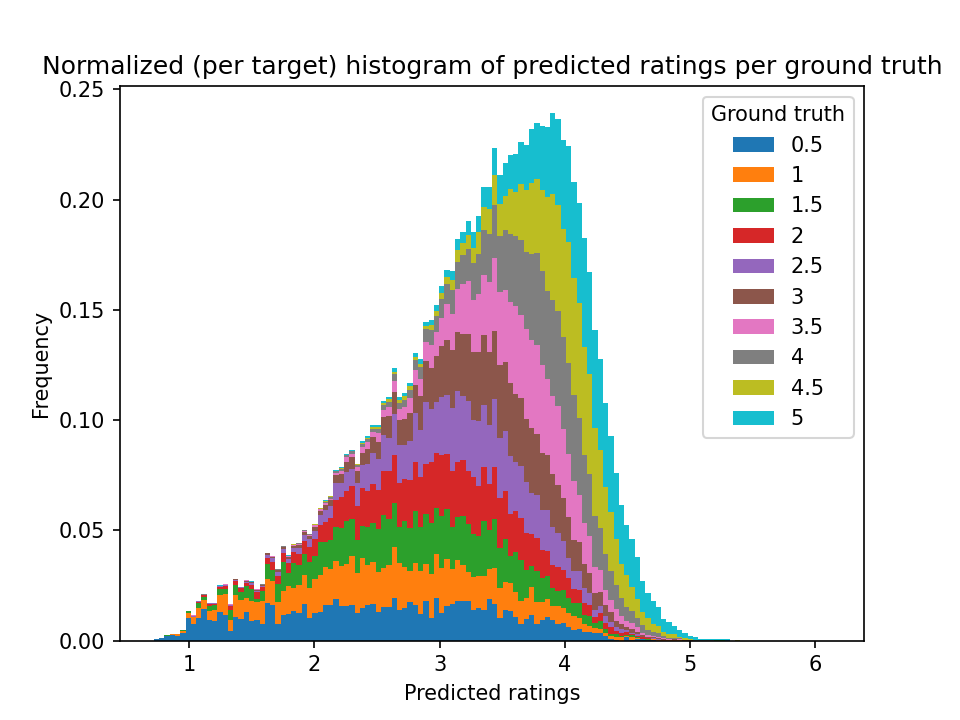
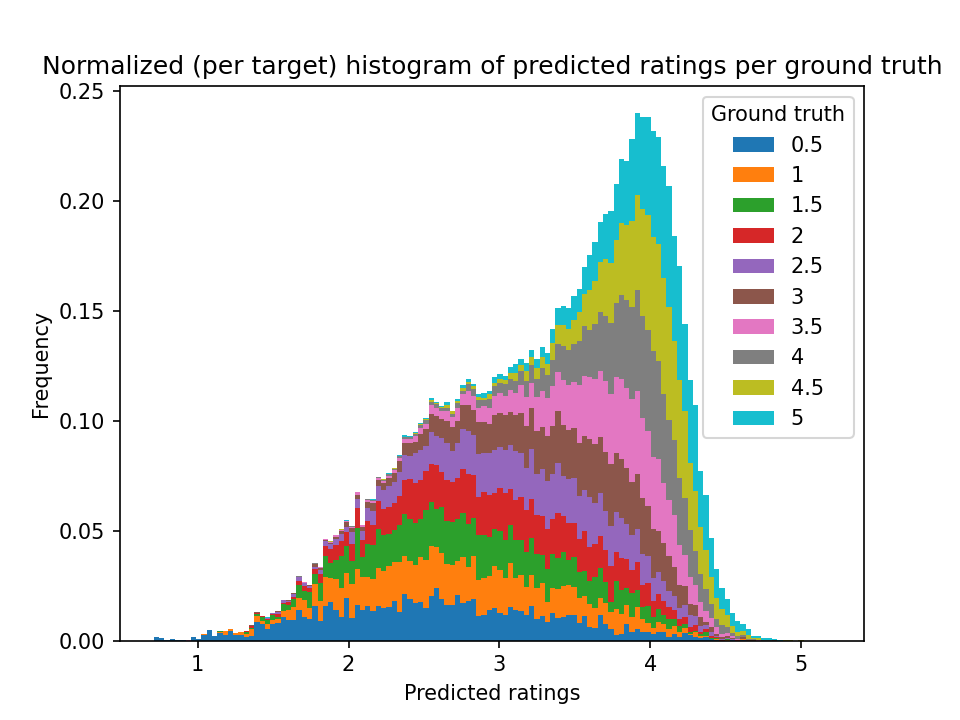
Separate models and datasets - working end2end model - separate lrs Problem: fix division causing NaNs

diff --git a/src/datasets/dynamic_dataset.py b/src/datasets/dynamic_dataset.py
@@ -1,0 +1,92 @@
+import torch
+from sklearn.preprocessing import MultiLabelBinarizer
+from torch.utils.data import Dataset
+import pandas as pd
+import numpy as np
+
+from globals import item_metadata_file, user_ratings_file, audio_features_file, features_to_use
+
+
+class MovieLensDataset(Dataset):
+    print('Initializing common dataset prerequisites...')
+    metadata: pd.DataFrame = pd.read_hdf(item_metadata_file + '.h5')
+    audio: pd.DataFrame = pd.read_csv(audio_features_file + '.csv', sep=';', index_col='movieId')
+    audio.drop(['primaryTitle', 'fileName'], axis=1, inplace=True)   # drop non-features if they exist
+    audio = audio.astype(np.float64)
+    user_ratings: pd.DataFrame = pd.read_hdf(user_ratings_file + '.h5')
+    print('Done')
+
+    def __init__(self, file):      # 'metadata', 'audio' or 'all'
+        self.samples: pd.DataFrame = pd.read_csv(file + '.csv')
+
+    def __getitem__(self, item):
+        """ returns ((item metadata, item audio), [(ratings, items metadata, items audio)], target rating) """
+        # get sample
+        data = self.samples.iloc[item]
+        # get target rating
+        target_rating = float(data['rating'])
+        # get candidate item features
+        if features_to_use == 'metadata':
+            candidate_items = torch.FloatTensor(self.metadata.loc[data['movieId']]['features'])
+        elif features_to_use == 'audio':
+            candidate_items = torch.FloatTensor(self.audio.loc[data['movieId']].astype(np.float64))
+        elif features_to_use == 'all' or features_to_use == 'both':
+            candidate_items = torch.cat((torch.FloatTensor(self.metadata.loc[data['movieId']]['features']),
+                                         torch.FloatTensor(self.audio.loc[data['movieId']].astype(np.float64))), dim=1)
+        else:
+            raise Exception('Invalid features_to_use parameter in dataset')
+        # for the user part only forward the user's ID. We will mass collect info in batch-level
+        return candidate_items, data['userId'], target_rating
+
+    def __len__(self):
+        return self.samples.shape[0]
+
+    @staticmethod
+    def get_metadata_dim():
+        if features_to_use == 'metadata':
+            return len(MovieLensDataset.metadata['features'].iloc[0])
+        elif features_to_use == 'audio':
+            return MovieLensDataset.audio.shape[1]
+        elif features_to_use == 'all' or features_to_use == 'both':
+            return len(MovieLensDataset.metadata['features'].iloc[0]) + MovieLensDataset.audio.shape[1]
+        else:
+            raise Exception('Invalid features_to_use parameter in dataset')
+
+
+def multihot_encode(actual_values, ordered_possible_values) -> np.array:
+    """ Converts a categorical feature with multiple values to a multi-label binary encoding """
+    mlb = MultiLabelBinarizer(classes=ordered_possible_values)
+    binary_format = mlb.fit_transform(actual_values)
+    return binary_format
+
+
+def my_collate_fn(batch):
+    # turn per-row to per-column
+    batch_data = list(zip(*batch))
+    # stack torch tensors from dataset
+    candidate_items = torch.stack(batch_data[0])
+    targets = torch.FloatTensor(batch_data[2])
+    # for the user part we do all the work here.
+    # get user ids in batch and their ratings
+    user_ids = list(batch_data[1])
+    user_ratings = MovieLensDataset.user_ratings.loc[user_ids]
+    # get unique item ids in batch
+    rated_items_ids = np.unique(np.concatenate(user_ratings['movieId'].values))   # TODO: must return ordered list (seems to)
+    # multi-hot encode sparse ratings into a matrix form
+    user_matrix = multihot_encode(user_ratings['movieId'], rated_items_ids).astype(np.float64)
+    # TODO: This will work but ONLY IF ratings are ORDERED by movieId when we create the dataset. Else the ratings will be misplaced! Be careful!
+    user_matrix[user_matrix == 1] = np.concatenate((user_ratings['rating'] - user_ratings['meanRating']).values)
+    # check: e.g. user_matrix[0, rated_movies == 'tt0114709']
+    user_matrix = torch.FloatTensor(user_matrix)       # convert to tensor
+    # get features for all rated items in batch
+    if features_to_use == 'metadata':
+        rated_items = torch.FloatTensor(np.stack(MovieLensDataset.metadata.loc[rated_items_ids]['features'].values))
+    elif features_to_use == 'audio':
+        rated_items = torch.FloatTensor(MovieLensDataset.audio.loc[rated_items_ids].astype(np.float64).values)
+    elif features_to_use == 'all' or features_to_use == 'both':
+        rated_items = torch.cat((torch.FloatTensor(np.stack(MovieLensDataset.metadata.loc[rated_items_ids]['features'].values)),
+                                 torch.FloatTensor(MovieLensDataset.audio.loc[rated_items_ids].astype(np.float64).values)), dim=1)
+    else:
+        raise Exception('Invalid features_to_use parameter in dataset')
+
+    return candidate_items, rated_items, user_matrix, targets

diff --git a/src/train.py b/src/train.py
@@ -4,16 +4,16 @@ from torch.utils.data import DataLoader
 from tqdm import tqdm
 
 
-from dataset import MovieLensDataset, my_collate_fn
+from datasets.dynamic_dataset import MovieLensDataset, my_collate_fn
 from globals import train_set_file, val_set_file, weight_decay, lr, batch_size, max_epochs, early_stop, \
-    stop_with_train_loss_instead, checkpoint_model_path, patience, dropout_rate, final_model_path
-from model import BasicNCF
+    stop_with_train_loss_instead, checkpoint_model_path, patience, dropout_rate, final_model_path, embeddings_lr
+from models.AdvancedNCF import AdvancedNCF
 from plots import plot_train_val_losses
 
 device = torch.device("cuda:0" if torch.cuda.is_available() else "cpu")
 
 
-def train_model(model: nn.Module, save=True):
+def train_model(model: AdvancedNCF, save=True):
     model.to(device)
 
     # load dataset
@@ -25,7 +25,10 @@ def train_model(model: nn.Module, save=True):
     val_loader = DataLoader(val_dataset, batch_size=batch_size, collate_fn=my_collate_fn)
 
     # define optimizer and loss
-    optimizer = optim.Adam(model.parameters(), lr=lr, weight_decay=weight_decay)
+    optimizer = optim.Adam([
+        {'params': model.item_embeddings.parameters(), 'lr': embeddings_lr},
+        {'params': model.MLP.parameters(), 'lr': lr, 'weight_decay': weight_decay}
+    ])
     criterion = nn.MSELoss(reduction='sum')   # don't average the loss as we shall do that ourselves for the whole epoch
 
     early_stop_times = 0
@@ -39,12 +42,12 @@ def train_model(model: nn.Module, save=True):
         train_size = 0
         model.train()  # gradients "on"
         for data in tqdm(train_loader, desc='Training'):                     # batch
-            # get the item & user input and the target
-            X_item_batch, X_user_batch, y_batch = data
+            # get the input matrices and the target
+            candidate_items, rated_items, user_matrix, y_batch = data
             # reset the gradients
             optimizer.zero_grad()
             # forward model
-            out = model(X_item_batch.float().to(device), X_user_batch.float().to(device))
+            out = model(candidate_items.float().to(device), rated_items.float().to(device), user_matrix.float().to(device))
             # calculate loss
             loss = criterion(out, y_batch.view(-1, 1).float().to(device))
             # backpropagation (compute gradients)
@@ -66,10 +69,10 @@ def train_model(model: nn.Module, save=True):
         val_size = 0
         with torch.no_grad():
             for data in tqdm(val_loader, desc='Validating'):
-                # get the item & user input and the target
-                X_item_batch, X_user_batch, y_batch = data
+                # get the input matrices and the target
+                candidate_items, rated_items, user_matrix, y_batch = data
                 # forward model
-                out = model(X_item_batch.float().to(device), X_user_batch.float().to(device))
+                out = model(candidate_items.float().to(device), rated_items.float().to(device), user_matrix.float().to(device))
                 # calculate loss
                 loss = criterion(out, y_batch.view(-1, 1).float().to(device))
                 # accumulate validation loss
@@ -114,19 +117,11 @@ def train_model(model: nn.Module, save=True):
 
 
 if __name__ == '__main__':
-    # # get metadata dim
-    # item_dim = MovieLensDatasetPreloaded.get_metadata_dim()
-    #
-    # # create model
-    # model = BasicNCF(item_dim, item_dim, dropout_rate=dropout_rate)
-    # model.to(device)
-    # print(model)
-
     # get metadata dim
-    i1, i2 = MovieLensDataset.get_metadata_dim()
+    item_dim = MovieLensDataset.get_metadata_dim()
 
     # create model
-    model = BasicNCF(i1, i1, dropout_rate=dropout_rate)     # todo
+    model = AdvancedNCF(item_dim, dropout_rate=dropout_rate)
     model.to(device)
     print(model)
 

diff --git a/src/evaluate.py b/src/evaluate.py
@@ -6,10 +6,10 @@ from torch import nn
 from torch.utils.data import DataLoader
 from tqdm import tqdm
 
-from dataset import MovieLensDatasetPreloaded
+from datasets.dynamic_dataset import MovieLensDataset, my_collate_fn
 from globals import test_set_file, batch_size
-from model import BasicNCF
-from plots import plot_fitted_vs_targets, plot_residuals, plot_stacked_residuals
+from models.AdvancedNCF import AdvancedNCF
+from plots import plot_residuals, plot_stacked_residuals
 
 device = torch.device("cuda:0" if torch.cuda.is_available() else "cpu")
 
@@ -18,8 +18,8 @@ def evaluate_model(model: nn.Module):
     model.to(device)
 
     # load dataset
-    test_dataset = MovieLensDatasetPreloaded(test_set_file)
-    test_loader = DataLoader(test_dataset, batch_size=batch_size)
+    test_dataset = MovieLensDataset(test_set_file)
+    test_loader = DataLoader(test_dataset, batch_size=batch_size, collate_fn=my_collate_fn)
 
     print('Test size:', len(test_dataset))
 
@@ -36,10 +36,10 @@ def evaluate_model(model: nn.Module):
     i = 0
     with torch.no_grad():
         for data in tqdm(test_loader, desc='Testing'):
-            # get the item & user input and the target
-            X_item_batch, X_user_batch, y_batch = data
+            # get the input matrices and the target
+            candidate_items, rated_items, user_matrix, y_batch = data
             # forward model
-            out = model(X_item_batch.float().to(device), X_user_batch.float().to(device))
+            out = model(candidate_items.float().to(device), rated_items.float().to(device), user_matrix.float().to(device))
             # calculate loss
             loss = criterion(out, y_batch.view(-1, 1).float().to(device))
             # accumulate validation loss
@@ -68,10 +68,10 @@ if __name__ == '__main__':
     model_file = '../models/final_model.pt'
 
     # get metadata dim
-    item_dim = MovieLensDatasetPreloaded.get_metadata_dim()
+    item_dim = MovieLensDataset.get_metadata_dim()
 
     # create model and load trained weights
-    model = BasicNCF(item_dim, item_dim)
+    model = AdvancedNCF(item_dim)
     model.load_state_dict(torch.load(model_file))
     model.to(device)
 

diff --git a/src/datasets/fixed_user_embeddings_dataset.py b/src/datasets/fixed_user_embeddings_dataset.py
@@ -1,0 +1,37 @@
+import torch
+from torch.utils.data import Dataset
+import pandas as pd
+
+from globals import item_metadata_file, user_embeddings_file
+
+
+# TODO: Update to use both features (maybe use for testing where embeddings are fixed?)
+class MovieLensDatasetPreloaded(Dataset):
+    # Static: same for all instances -> shared across train-val-test sets
+    print('Initializing common dataset prerequisites (preloaded user embeddings)...')
+    metadata: pd.DataFrame = pd.read_hdf(item_metadata_file + '.h5')
+    user_embeddings: pd.DataFrame = pd.read_hdf(user_embeddings_file + '.h5')
+    print('Done')
+
+    def __init__(self, file):
+        self.samples: pd.DataFrame = pd.read_csv(file + '.csv')
+
+    def __getitem__(self, item):
+        """ returns (item input, user input, target) """
+        data = self.samples.iloc[item]
+        rating = float(data['rating'])
+        item_tensor = torch.FloatTensor(self.metadata.loc[data['movieId']]['features'])
+        user_tensor = torch.FloatTensor(self.user_embeddings.loc[data['userId']][0])
+        return item_tensor, user_tensor, rating
+
+    def create_user_embedding(self, user_ratings: pd.DataFrame):
+        # Note: Old way. This is for just-in-time user embedding creation. Better to do pre-do this for the whole class.
+        avg_rating = user_ratings['rating'].mean()
+        return torch.FloatTensor(((user_ratings['rating'] - avg_rating) * self.metadata.loc[user_ratings['movieId']]['features'].values).mean())   # TODO: sum or mean?
+
+    def __len__(self):
+        return self.samples.shape[0]
+
+    @staticmethod
+    def get_metadata_dim():
+        return len(MovieLensDatasetPreloaded.metadata['features'].iloc[0])

diff --git a/src/models/AdvancedNCF.py b/src/models/AdvancedNCF.py
@@ -1,0 +1,35 @@
+import torch
+from torch import nn
+
+
+class AdvancedNCF(nn.Module):
+    def __init__(self, item_dim, item_embeddings_size=64, dropout_rate=0.2,
+                 dense1=128, dense2=64):
+        super(AdvancedNCF, self).__init__()
+        self.item_embeddings = nn.Sequential(
+            nn.Linear(item_dim, item_embeddings_size),
+            nn.Tanh()
+        )
+        self.MLP = nn.Sequential(
+            nn.Linear(2*item_embeddings_size, dense1),
+            nn.ReLU(),
+            nn.Dropout(dropout_rate),
+            nn.Linear(dense1, dense2),
+            nn.ReLU(),
+            nn.Dropout(dropout_rate),
+            nn.Linear(dense2, 1)
+        )
+
+    def forward(self, candidate_items, rated_items, user_matrix):
+        # item part
+        candidate_embeddings = self.item_embeddings(candidate_items)
+        # user part
+        rated_embeddings = self.item_embeddings(rated_items).detach()   # (!) detach
+        # ratings_per_user = user_matrix.count_nonzero(dim=1)
+        # TODO: causes nans? user_embeddings = torch.div(torch.matmul(user_matrix, rated_embeddings), ratings_per_user.view(-1, 1))
+        user_embeddings = torch.matmul(user_matrix, rated_embeddings)
+        # combine
+        combined = torch.cat((candidate_embeddings, user_embeddings), dim=1)
+        # MLP part
+        out = self.MLP(combined)
+        return out

diff --git a/src/globals.py b/src/globals.py
@@ -17,14 +17,15 @@ seed = 102
 
 # which features to use for items
 """ 'metadata', 'audio' or 'all' """
-features_to_use = 'audio'
+features_to_use = 'metadata'
 
 """ NN hyperparameters """
 checkpoint_model_path = '../models/checkpoint.pt'
 final_model_path = '../models/final_model.pt'
 max_epochs = 100
-batch_size = 32
-lr = 3e-4
+batch_size = 128
+embeddings_lr = 0.0003
+lr = 0.001
 weight_decay = 1e-5
 dropout_rate = 0.2
 early_stop = True
